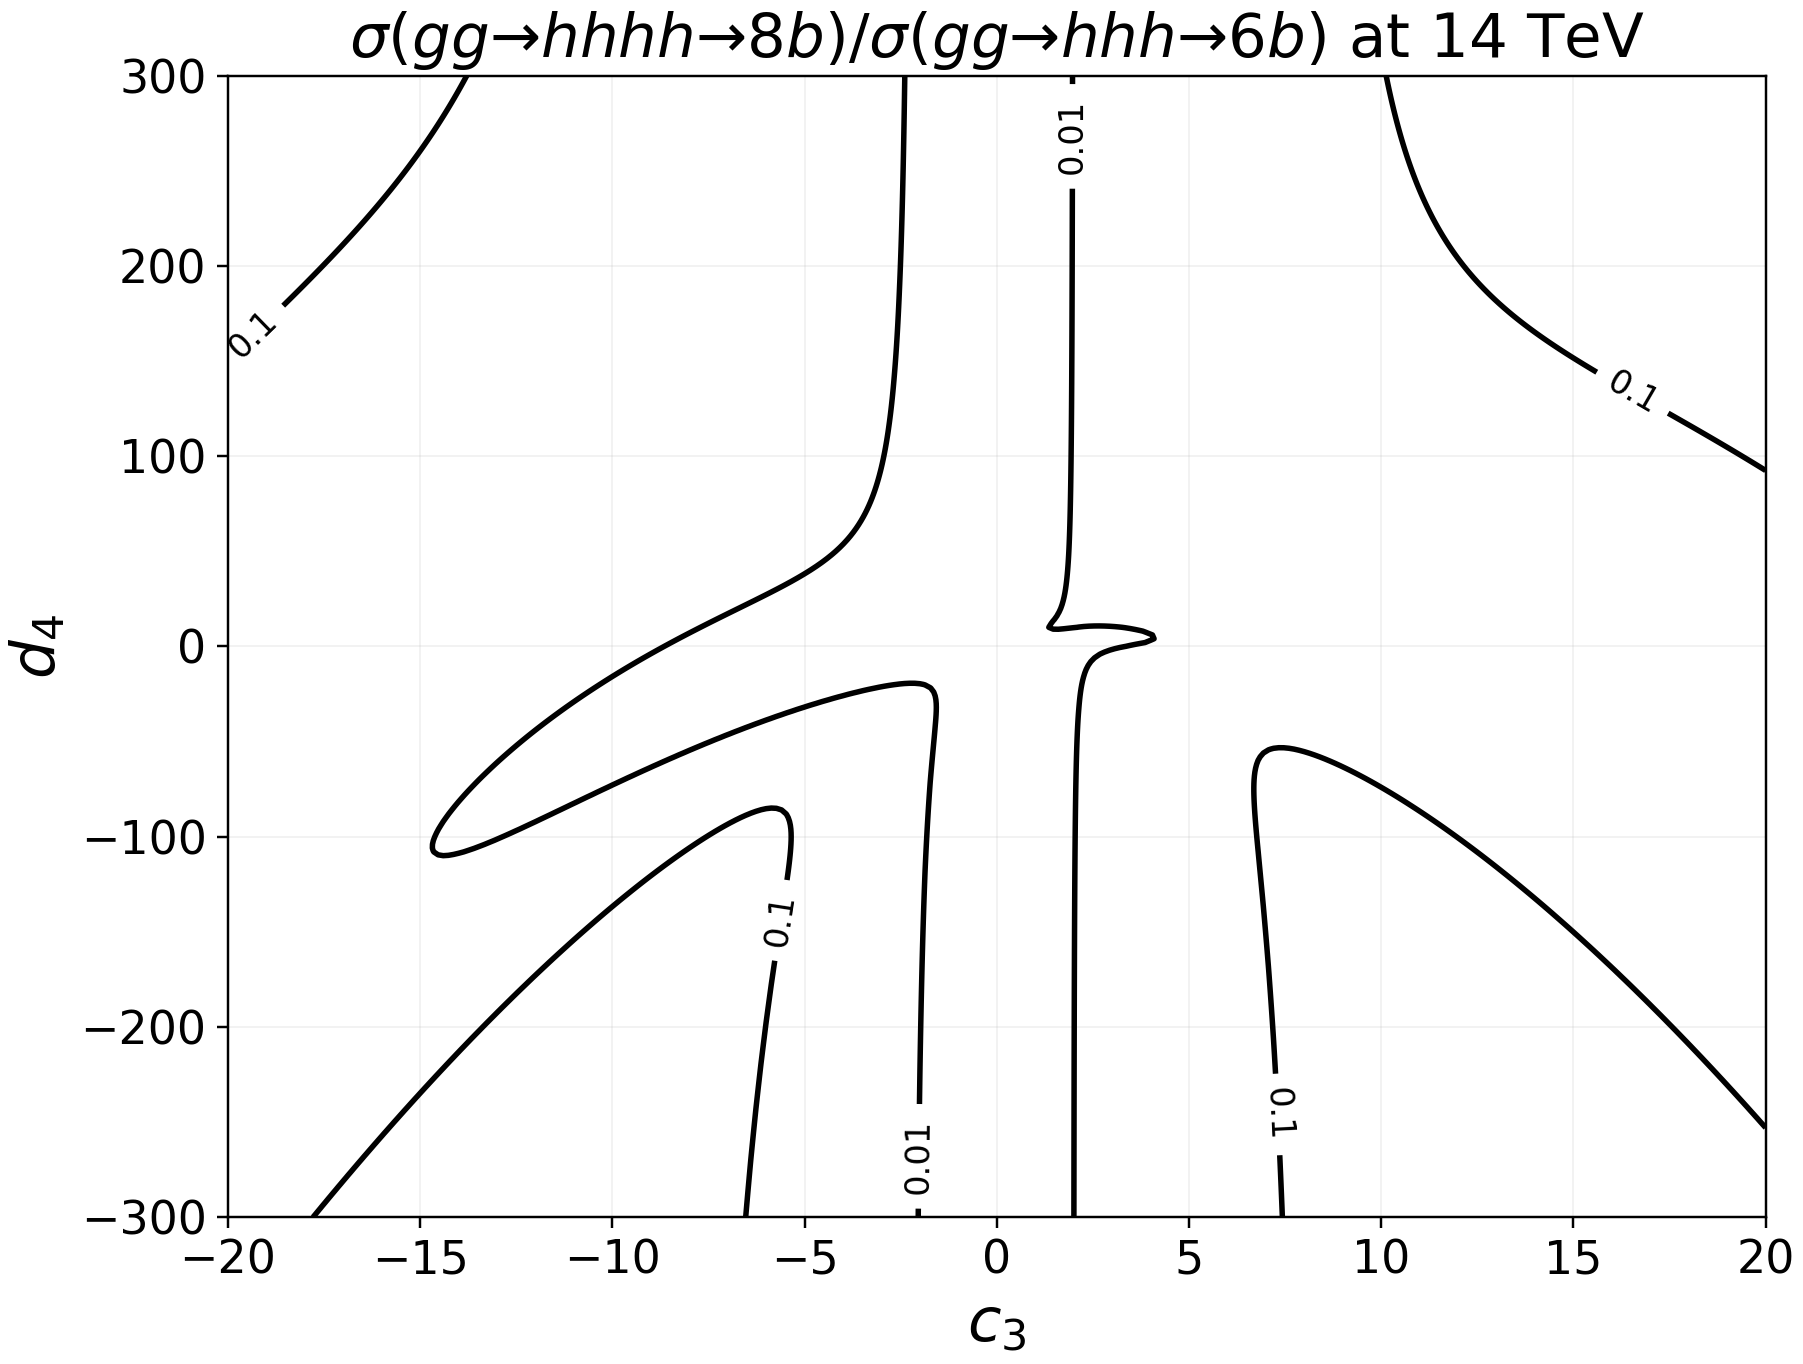
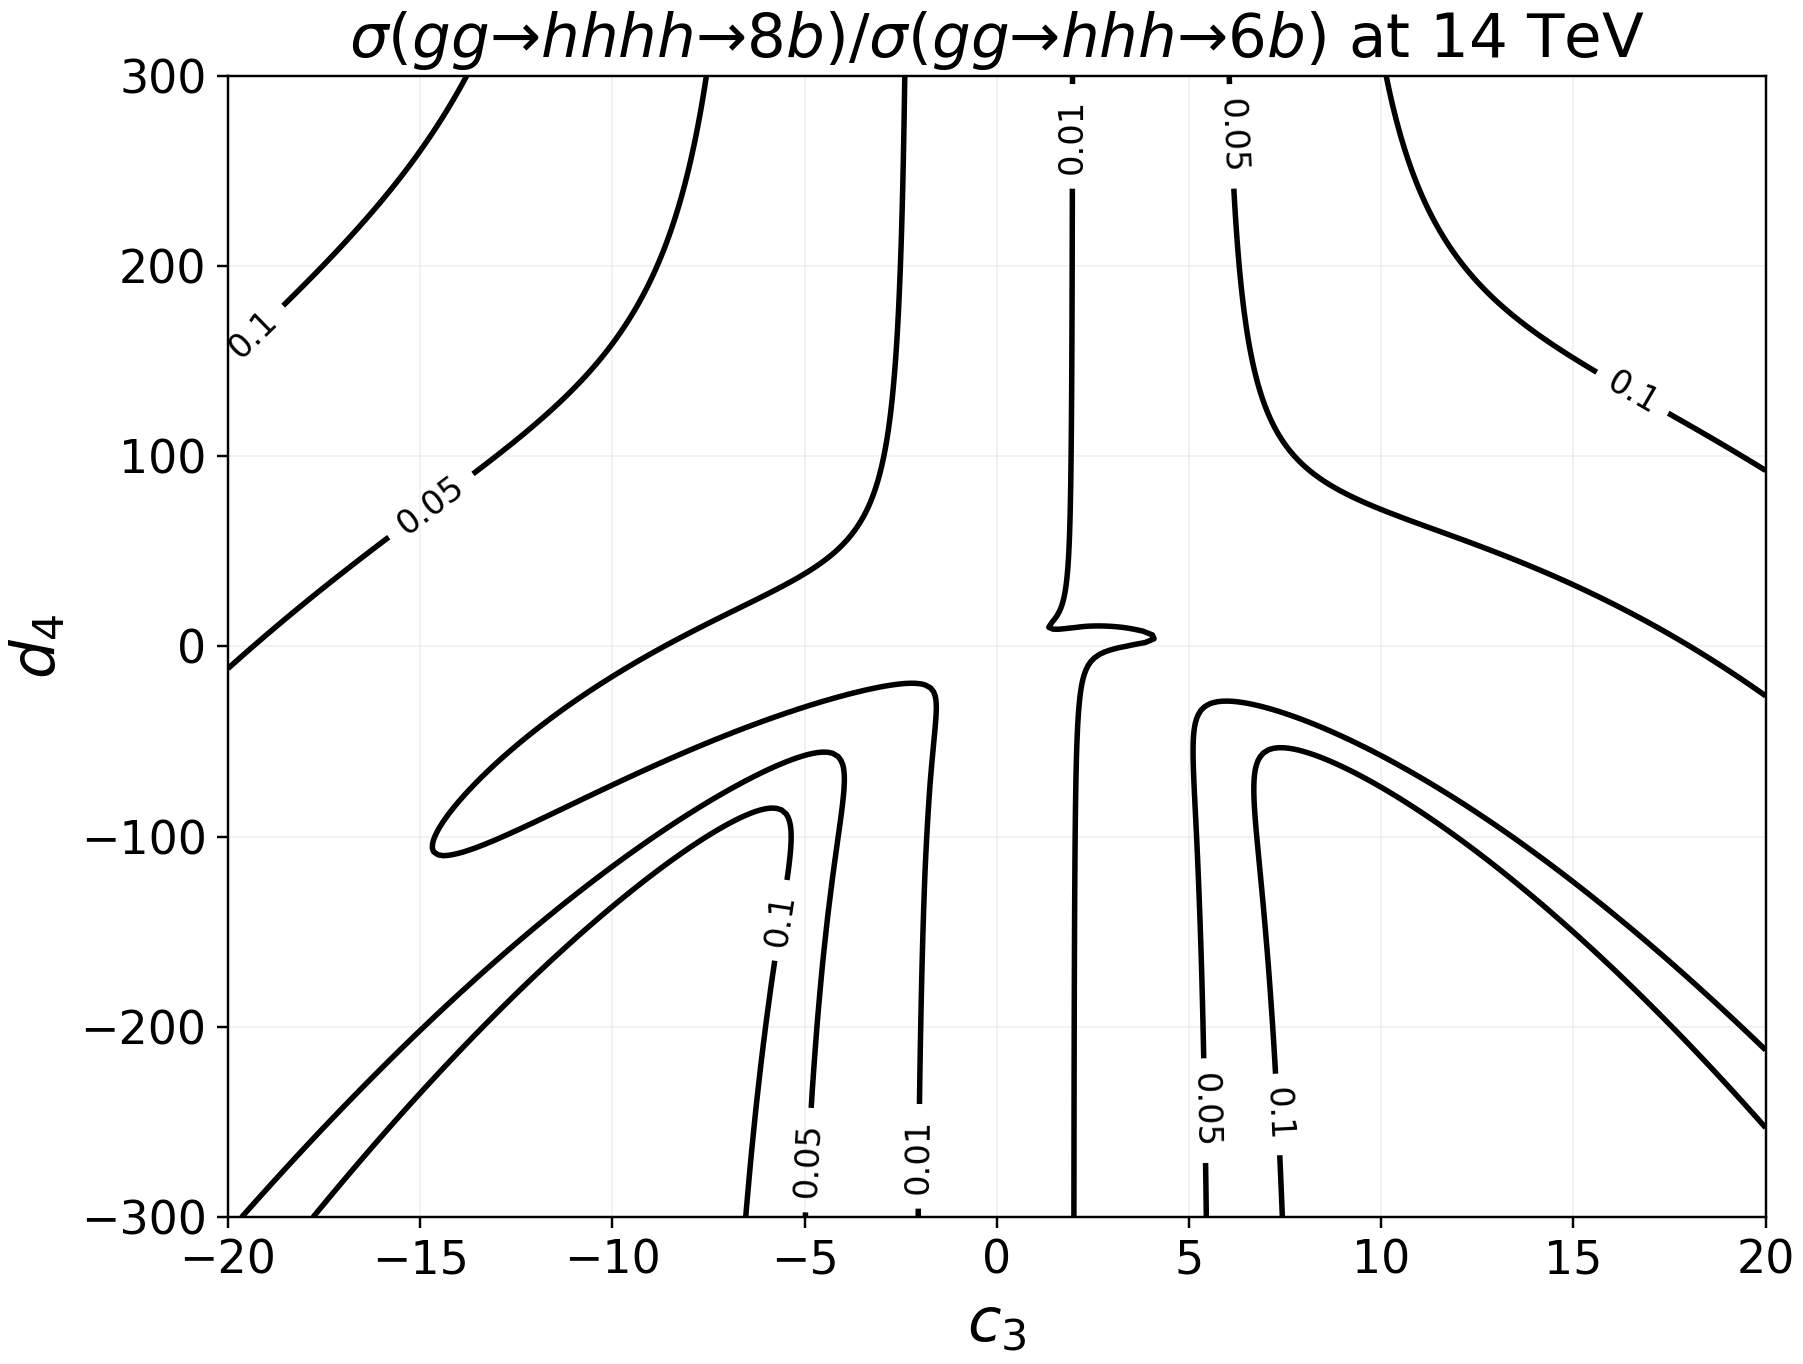
Add 0.05 ratio contour level

diff --git a/tests/test_xsec_overlay_band_wiring.py b/tests/test_xsec_overlay_band_wiring.py
@@ -150,7 +150,7 @@ class HHHHXsecOverlayBandWiringTests(unittest.TestCase):
         module_text = MODULE_PATH.read_text()
         analyzer_text = (REPO_DIR / "4h_analyzer.py").read_text()
         self.assertIn("DEFAULT_HHH_XSEC_SOURCE_DIR", module_text)
-        self.assertIn("DEFAULT_HHHH_OVER_HHH_RATIO_LEVELS = (0.01, 0.1, 1.0, 10.0)", module_text)
+        self.assertIn("DEFAULT_HHHH_OVER_HHH_RATIO_LEVELS = (0.01, 0.05, 0.1, 1.0, 10.0)", module_text)
         self.assertIn("/mnt/ssd2/Projects/4H/MG5_aMC_v3_5_15/gg_hhh_c3d4", module_text)
         self.assertIn("c3d4_hhhh_over_hhh_ratio_contours.png", module_text)
         self.assertIn("c3d4_hhhh_8b_over_hhh_6b_ratio_contours.png", module_text)

diff --git a/Code/xgboost_root_varfiles_module.py b/Code/xgboost_root_varfiles_module.py
@@ -1769,7 +1769,7 @@ DEFAULT_HHHH_XSEC_EXPECTED_WIDE_RUNS = 17
 DEFAULT_HHH_XSEC_WIDE_RUNNUM = "3"
 DEFAULT_HHH_XSEC_EXPECTED_WIDE_RUNS = 11
 DEFAULT_HHH_XSEC_EXCLUDED_RUNNUMS = ("1",)
-DEFAULT_HHHH_OVER_HHH_RATIO_LEVELS = (0.01, 0.1, 1.0, 10.0)
+DEFAULT_HHHH_OVER_HHH_RATIO_LEVELS = (0.01, 0.05, 0.1, 1.0, 10.0)
 DEFAULT_HBB_BRANCHING_RATIO = 0.5824
 DEFAULT_HHHH_PERTURBATIVITY_MH = 125.0
 DEFAULT_HHHH_PERTURBATIVITY_V = 246.0
